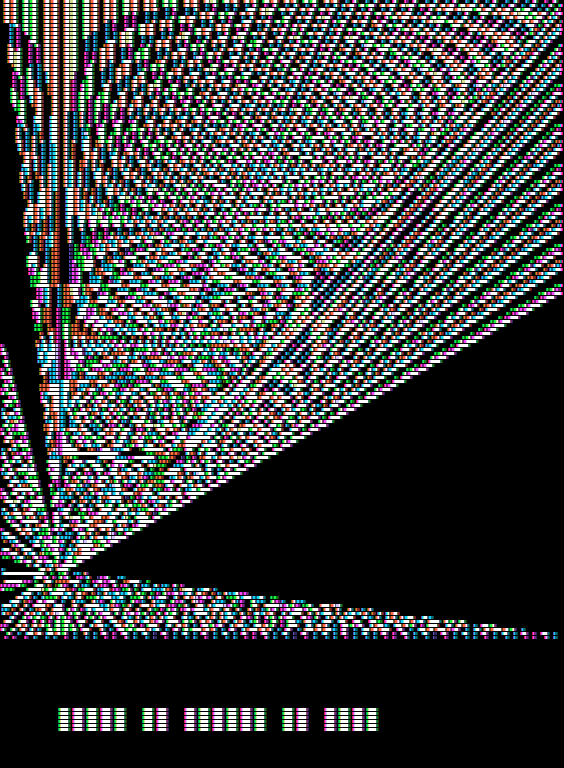
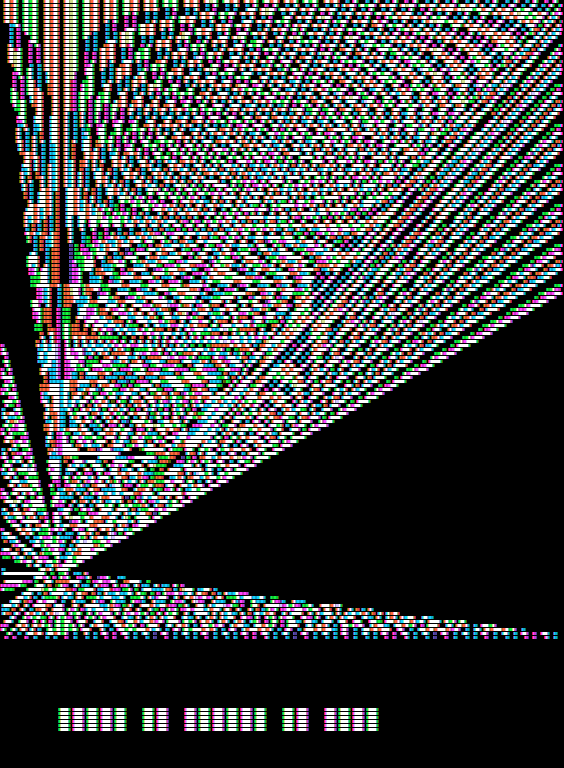
Softer attenuation on the NTSC filter

diff --git a/screen/ntscFilter.go b/screen/ntscFilter.go
@@ -38,7 +38,7 @@ func buildAttenuatedColorMap(colorMap [16]color.Color) [16]color.Color {
 	for i := 0; i < len(colorMap); i++ {
 		r, g, b, _ := colorMap[i].RGBA()
 		colors[i] = color.RGBA64{
-			uint16(r / 2), uint16(g / 2), uint16(b / 2),
+			uint16(4 * r / 5), uint16(4 * g / 5), uint16(4 * b / 5),
 			65535,
 		}
 	}
